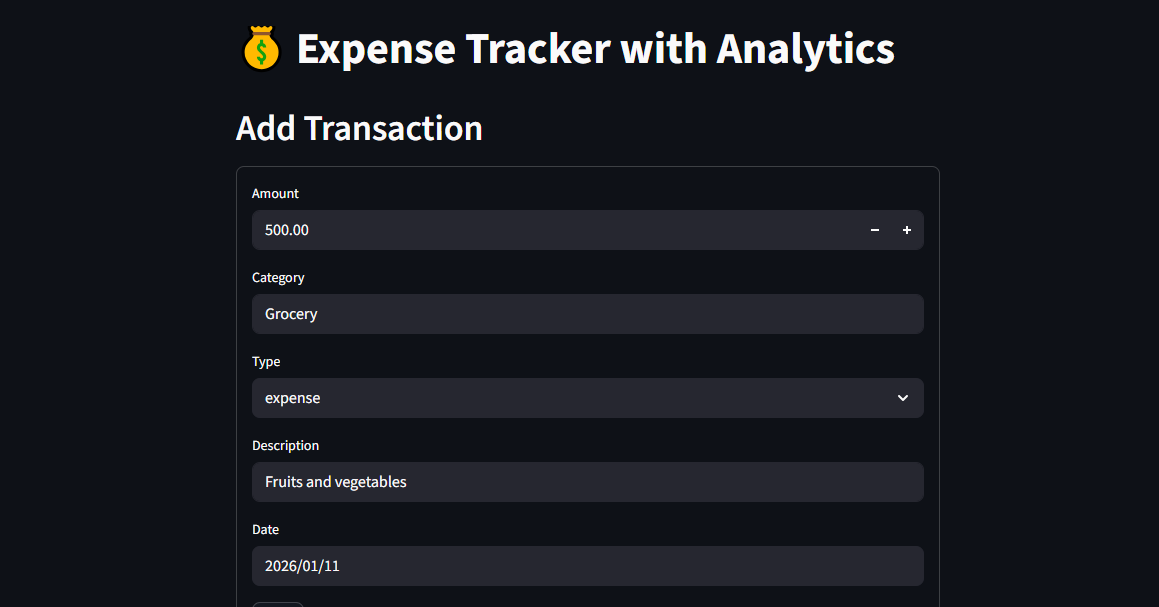
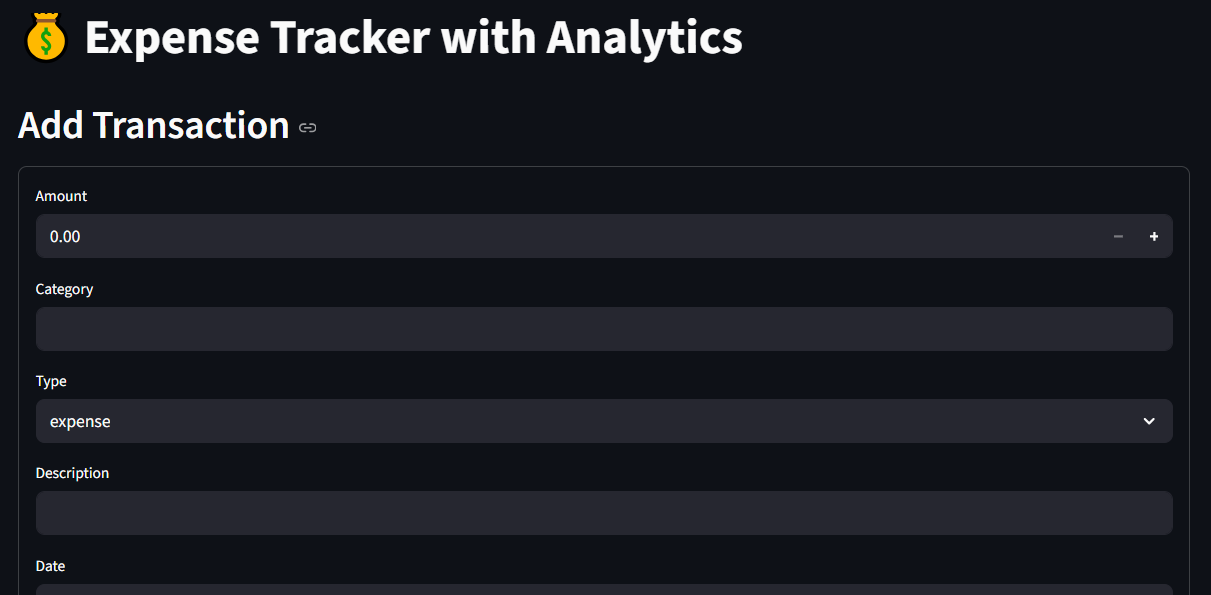
Add complete README with screenshots.

diff --git a/README.md b/README.md
@@ -30,7 +30,6 @@ This project focuses on **clean backend logic**, **database-driven transactions*
 ## 🛠 Tech Stack
 
 | Layer | Technology |
-|-----|-----------|
 | Language | Python |
 | UI | Streamlit |
 | Database | SQLite |
@@ -49,8 +48,13 @@ Expense_Tracker_With_Analytics/
 ├── requirements.txt
 └── README.md
 
-
 ---
+
+## Screenhots
+![Dashboard](Screenshots/app_screenshot1.png)
+![Dashboard](Screenshots/app_screenshot2.png)
+![Dashboard](Screenshots/app_screenshot3.png)
+![Dashboard](Screenshots/app_screenshot4.png)
 
 ### 1⃣ Clone the repository
 ```bash
@@ -69,8 +73,6 @@ Run the application
 streamlit run app.py
 
 ---
-### Screenshots
-
 
 
 👤 Author
